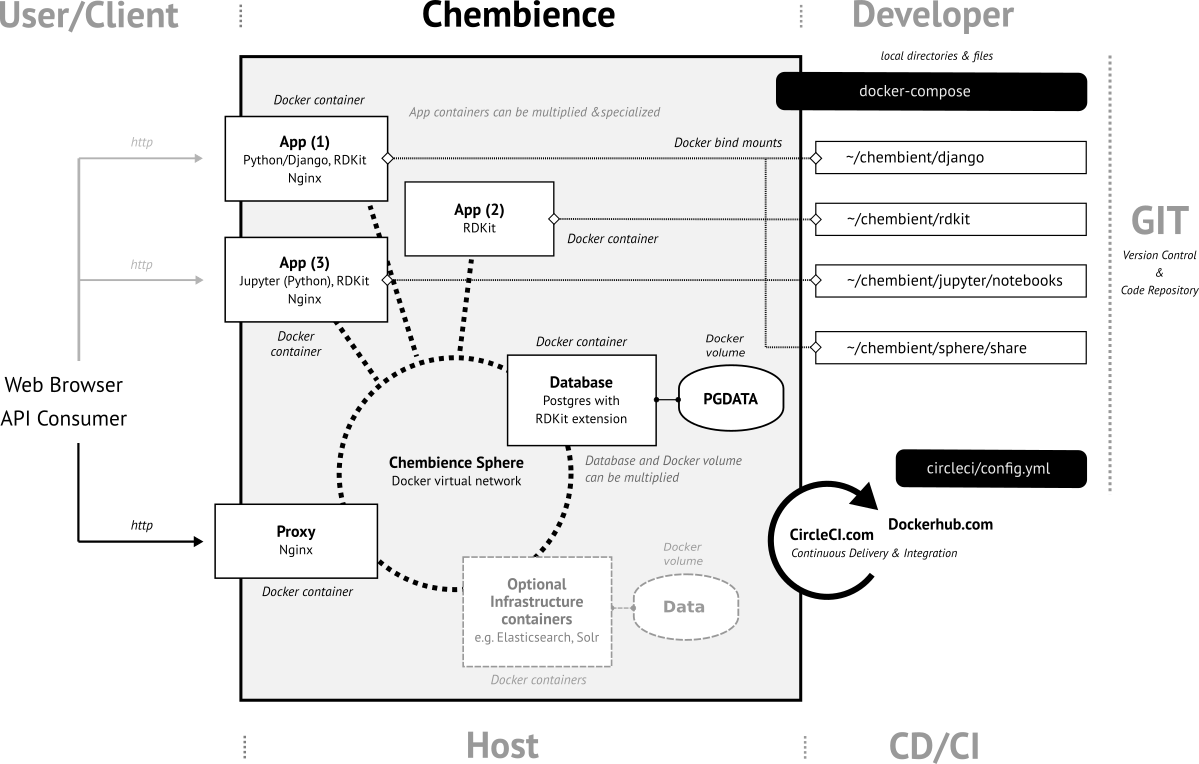
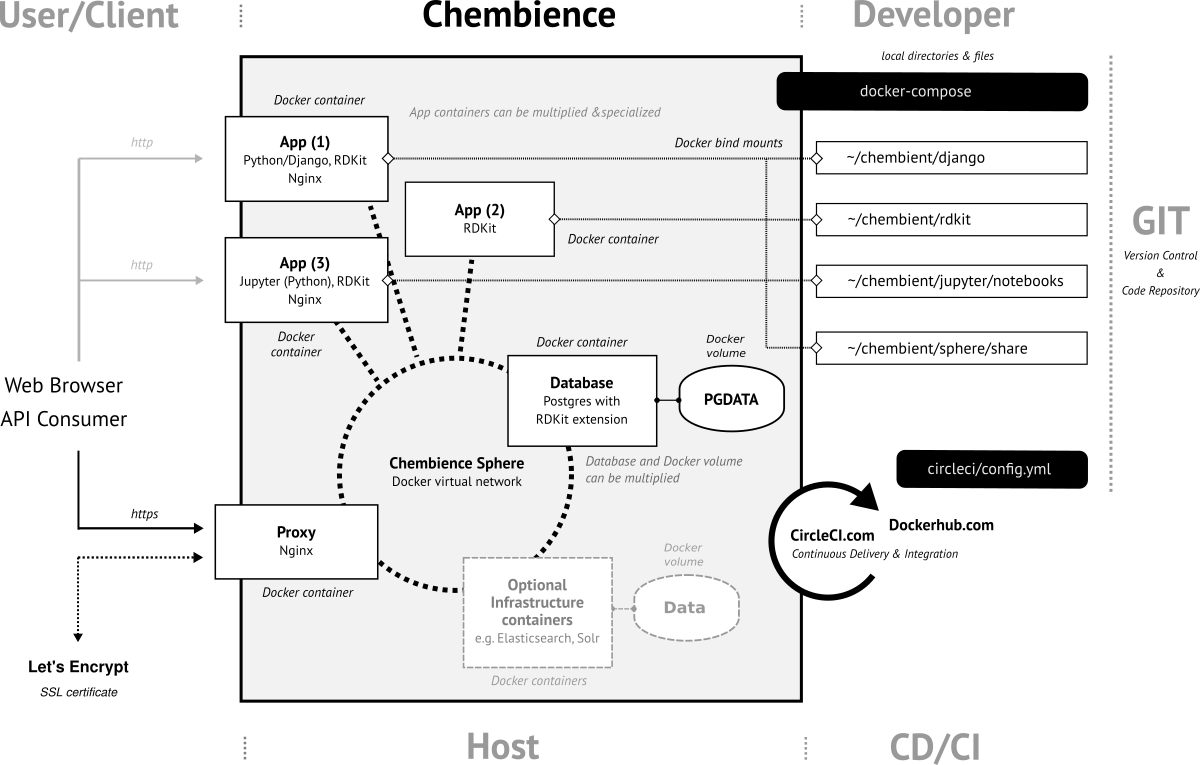
documentation for 0.2.4

diff --git a/README.rst b/README.rst
@@ -16,53 +16,52 @@ Chembience
 Overview
 --------
 
-**Chembience** is a `Docker <https://docs.docker.com/>`_ based platform intended for the fast development of
+**Chembience** is a `Docker <https://docs.docker.com/>`_ based platform supporting the fast development of
 `chemoinformatics <https://en.wikipedia.org/wiki/Cheminformatics>`_-centric web applications and microservices.
-It supports a clean separation of your scientific web service implementation work from any infrastructure-related
-configuration requirements. The following schema provides an overview.
+It creates a clean separation between your scientific web service implementation and any host-specific or
+infrastructure-related configuration requirements. The following schema provides an overview.
 
 .. image:: docs/_images/chembience.png
 
 At its current development stage, Chembience provides three base types of prototype application (*App*) packages: (1) a
 `Django <https://www.djangoproject.com/>`_/`Django REST framework <https://www.django-rest-framework.org/>`_-based
 *App* which is specifically suited for the development of web-based `Python <https://www.python.org/>`_
-(REST) services, (2) a RDKit/Python shell-based *App* which allows for the execution of Python scripts (including RDKit,
-see below), and (3), a `Jupyter <https://www.jupyter.org/>`_-based *App* which let you run Jupyter
+REST and microservices, (2) a RDKit/Python shell-based *App* which allows for the execution of Python scripts (including
+RDKit, see below), and (3), a `Jupyter <https://www.jupyter.org/>`_-based *App* which let you run Jupyter
 notebooks locally on a Web browser (currently only a Python kernel is supported).
 
 All prototype *Apps* have pre-configured access to a `Postgres <https://www.postgresql.org/>`_ databases
 system running in a separate Docker container (*Database*) on the same Docker virtual network (*Chembience Sphere*).
-Any of the *App* Docker images and the Postgres database image have the `RDKit <http://www.rdkit.org/>`_  toolkit readily
-installed (either as Python module or Postgres extension). Additionally, both the Django and the Jupyter *App* packages
+Any of the *App* Docker images and the Postgres database image have the `RDKit <http://www.rdkit.org/>`_  toolkit integrated
+ either as Python module or Postgres extension. Additionally, both the Django and the Jupyter *App* packages
 provide a `Nginx <https://www.nginx.com>`_-based web server instance as component of their Docker image.
 
 Creation and deployment of all Chembience-based Docker images and containers is orchestrated by
 `docker-compose <https://docs.docker.com/compose/>`_. All Docker images required for starting up any of the Chembience
 *App* packages are continuously built and tested at `CircleCi.com <https://circleci.com>`_ and made available
 from the `Chembience Docker hub repository <https://hub.docker.com/u/chembience/>`_). Alternatively, the Docker images
-can also be built locally on the user's host machine by using the build script provided in root directory of this Github
-repository.
+can also be built locally on the user's host machine by using the proviced build script.
 
 If a Chembience-based application is started, a Docker virtual network (*Chembience Sphere*) is created on the Docker
 host system, as well as the requested *App* and infrastructure containers, e.g. the *Database* container,
 are brought up together at once. Depending on the current use case, a different set of the available Chembience
-container components can be easily configured and put together by means of the docker-compose configuration file.
+container components can be easily configured and put together by adjusting the docker-compose configuration file.
 
-Another component of Chembience is the Chembience *Proxy* which has bben created as a fork of the
+Another component of Chembience is the Chembience *Proxy* which has been created as a fork of the
 `jwilder/nginx-proxy project <https://github.com/jwilder/nginx-proxy>`_. The *Proxy* acts as a reverse proxy in front of
 all *App* containers and allows for spinning up additional container instance, or updating and removing existing ones
-while avoiding interference with web traffic to other running Chembience containers and services. The *Proxy* works in
+while avoiding interference with web traffic to other running Chembience-based services and containers. The *Proxy* works in
 a way that it automatically discovers any existing or newly starting *App* container inside the *Chembience Sphere*
 virtual network and looks up their (sub) domain specification. It then makes the *App* containers accessible to the
-outside of the *Chembience Sphere* network under their specified domain names which might include a DNS-registered
+outside of the *Chembience Sphere* network under their specified domain names which might be either a DNS-registered
 Web domain, or any sub domain at localhost for locally running Web applications.
 
 All of the Chembience *App* packages can be easily altered, cloned, removed, or reconfigured. After the initialization of
 the Chembience base system (see `Quick Start: Base Installation`_ below), the initially created *App* package directories
 can be moved, renamed, or copied, in order to create multiple, specialized application packages, which then can be
-tracked as separate software projects of their own. If additional infrastructure packages are needed
-for a project (e.g. Solr, elasticsearch, or additional Postgres container instances), they can be easily configured
-as additional components as part of docker-compose configuration, too.
+handled as software projects of their own. If additional infrastructure packages are needed
+for a project (e.g. Solr, elasticsearch, or additional Postgres container instances), they can be easily integrated
+as additional components as part of docker-compose configuration.
 
 Current release version of the most important packages are:
 
@@ -76,13 +75,14 @@ Current release version of the most important packages are:
 History
 -------
 
-The development of Chembience originally started as a component for the `InChI-Resolver <https://www.inchi-resolver.org/>`_
+The development of Chembience originally started as a component of the `InChI-Resolver <https://www.inchi-resolver.org/>`_
 project (the alpha version of the InChI resolver is currently in the process of being migrated from a predecessor version
 of Chembience to the current version provided here).
 
 Releases
 --------
 
+- 0.2.4 (September 2018), SSL certificate registration with `Let's Encrypt <https://letsencrypt.org/>`_, project improvements
 - 0.2.3 (August 2018), update to RDKit 2018.03.4, Postgres 10.5, Django 2.1 and Nginx 1.14, further project clean-up
 - 0.2.2 (July 2018), CircleCi builds, automated UID and GID configuration, clean up & bug fixes
 - 0.2.1 (June 2018), update to RDKit 2018.03.2, switch to Postgres 10.4
@@ -158,12 +158,12 @@ which has the following layout ::
 For this quick start section, only the most important of these files will be discussed. The command ``./up`` will start
 up the Django *App* container and the *Database* container (the initial configuration of the containers is provided in
 the ``.env`` file and the ``docker-compose.yml`` file, **NOTE**: the Django *App* container connects to
-port 8000 of the host system, if this port is already in use, it can by reconfigured in ``.env``). If everything went
-fine, you should now be able to go to ::
+port 8000 of the host system, if this port is already in use, it can by reconfigured in ``.env``, see variable
+``DJANGO_APP_CONNECTION_PORT``). If everything went fine, you should now be able to go to ::
 
     http://localhost:8000      (you should see the welcome page of a bare Django installation)
 
-For the initial setup of Django, still a few steps have to be done. Since Django runs inside a Docker container you can
+For the initial setup of Django, still a few steps needs to be done. Since Django runs inside a Docker container you can
 not directly access Django's ``manage.py`` script to set up things. Instead you have to use the ``django-manage-py``
 script provided in the current directory which passes any arguments to the ``manage.py`` script of the Django instance
 running inside the Django *App* container.
@@ -183,21 +183,22 @@ and login into the Django admin application with the just set up account and pas
 
 If you want to start the development of own Django apps, go into the ``appsite`` directory. If you already know how to develop
 with Django, this should look familiar to you. If not, go to the `official Django tutorial <https://docs.djangoproject.com/en/2.0/intro/tutorial01/>`_
-as a starting point (you can jump there to section *Creating the Polls app* because anything before is already done, also any
+as a starting point (you can jump there to section *Creating the Polls app* because anything before this step is already done, also any
 database setup sections can be skipped). Because the ``appsite`` directory is bind-mounted by Docker into the Django *App* container,
 anything you change there is immediately represented inside the container and the web service you are working on
-(for some changes in ``appsite/appsite`` and settings.py a container restart might be necessary).
+(for some changes in ``appsite/appsite`` and settings.py a container restart might be necessary, using  ``./down`` and
+ ``./up``).
 
 In order to bring the whole Chembience stack of Django *App* and *Database* down again, use the ``down`` script::
 
     ./down
 
-It will keep anything persistent you have created and stored so far in the database. If you are familiar with ``docker-compose``,
+Anything you have created and stored so far in the database has been persisted. If you are familiar with ``docker-compose``,
 all life-circle commands should work as expected, in fact, ``up`` and  ``down`` are just short cuts for their respective
 ``docker-compose`` commands.
 
 Starting with Chembience version 0.2.4, the Chembience *Proxy* container has to be started separately (see below).
-This isn't required if only a local development instance of the Chembience Django *App* is supposed to be run.
+However, this isn't required for the purpose of a locally running development instance of the Chembience Django *App*.
 
 Quick Start: RDKit App Container
 --------------------------------
@@ -221,7 +222,7 @@ You will see the following layout::
    up
 
 For this quick start section, only the most important of these files will be discussed. The ``./up`` command will start
-up the database and the *App* container running just a regular python shell. For connecting to the database, do the
+up the database and the *App* container executing a regular python shell interactively. For connecting to the database, do the
 following (if you use an unchanged Chembience configuration, use the shown database connection parameters verbatim,
 they are not just placeholders):
 
@@ -276,9 +277,9 @@ which has the following layout ::
 
 For this quick start section, only the most important of these files will be discussed. The command ``./up`` will start
 up the Jupyter *App* container and the *Database* container (the initial configuration of the containers is provided in
-the ``.env`` file and the ``docker-compose.yml`` file, ***NOTE**: the Jupyter *App* container connect to 8001 of the
-host system, respectively, if this port is already in use, it can by reconfigured in ``.env``). If everything went fine,
-you should now be able to go to ::
+the ``.env`` file and the ``docker-compose.yml`` file, ***NOTE**: the Jupyter *App* container connect to port 8001 of the
+host system, respectively, if this port is already in use, it can by reconfigured in ``.env``, , see variable
+``JUPYTER_APP_CONNECTION_PORT``). If everything went fine, you should now be able to go to ::
 
     http://localhost:8001       (you should see the login page of the Jupyter notebook server)
 
@@ -311,16 +312,70 @@ of the Jupyter *App* (or Jupyter notebook in general).
 Quick Start: Proxy
 ------------------
 
-If everything went
-fine, you should now be able to go to ::
+Beginning with Chembience version 0.2.4, the *Proxy* container isn't started as part of the Django and Jupyter *App*
+package anymore. Instead, it has to be started separately. If Chembience is used in default configuration, go into
+directory ::
+
+    cd ~/chembient/sphere
+
+and use the ``up`` script there ::
+
+    ./up
+
+This will make the *Proxy* available at ::
 
     http://localhost        (don't worry, the reverse proxy will report with *503 Service Temporarily Unavailable* there)
 
-and ::
+The *Proxy* will connect to port 80 of the host system. If this port is in use, set variable ``CHEMBIENCE_PROXY_EXTERNAL_PORT``
+of the ``.env``file of the current directory before using ``./up``. If either the Django or Jupyter *App* are running,
+they are also now available from the *Proxy* (if this doesn't work your local network configuration might not allow
+for resolving subdomains) ::
 
-    http://django.localhost    (you should see the welcome page of a bare Django installation, subdomain access using the proxy)
-    http://localhost:8000      (alternative direct access to the App container
+    http://django.localhost
+    http://jupyter.localhost
 
+Please note, that using the *Proxy* isn't necessary when using Chembience just for development purpose.
+
+Using the Proxy in production setting and with HTTP
+----------------------------------------------------
+
+As a prerequisite, your DNS-registered domain (e.g. www.example.com) has to be set up properly with your domain provider.
+Unfortunately it is hard to give a general description here.
+
+Bring the proxy up as described in the `Quick Start: Proxy`_ section. The port the *Proxy* is connecting to needs to
+be set to a outside-accessible port on your public web server/host (usually port 80).
+
+Additionally, before any Django *App* is brought up, the variable DJANGO_APP_VIRTUAL_HOSTNAME in the ``.env`` file of
+the Django app has to be set to the URL-domain, e.g. "www.example.com".
+
+Using the Proxy in production setting and with HTTPS
+----------------------------------------------------
+
+As a prerequisite, your DNS-registered domain (e.g. www.example.com) has to be set up properly with your domain provider.
+Unfortunately it is hard to give a general description here.
+
+For HTTPS access, the *Proxy* container has to be started from ::
+
+    cd ~/chembient/sphere
+
+and the command::
+
+    ./up-with-letsencryt
+
+ The *Proxy* will connect to port 80 and 443 of the host system. If these ports aren't available, set variable
+``CHEMBIENCE_PROXY_EXTERNAL_PORT`` and ``CHEMBIENCE_PROXY_EXTERNAL_SSL_PORT`` of the ``.env``file of the current directory
+before using ``./up-with-letsencrypt``.
+
+Additionally, before any Django *App* is brought up, set both the variable ``DJANGO_APP_VIRTUAL_HOSTNAME`` and ``LETSENCRYPT_HOST``
+in the ``.env`` file of the Django app hto your URL-domain, e.g. "www.example.com". Also, specify variable
+``LETSENCRYPT_EMAIL`` there. For a test run, keep variable ``LETSENCRYPT_TEST`` to ``true`` and check with ``docker-compose logs``
+in directory ``~/chembient/sphere`` for error messages. For the final registration run set `LETSENCRYPT_TEST`` to ``false``.
+Also consult `this page <https://github.com/JrCs/docker-letsencrypt-nginx-proxy-companion>`_ for further advice (the
+package described there is used for Chembience SSL support, however, for an initial set-up of Chembience no further
+configuration is required)
+
+Bugs, Comments and anything else
+--------------------------------
 
 For any bug reports, comments or suggestion please use the tools here at Github or contact me at my email.
 
